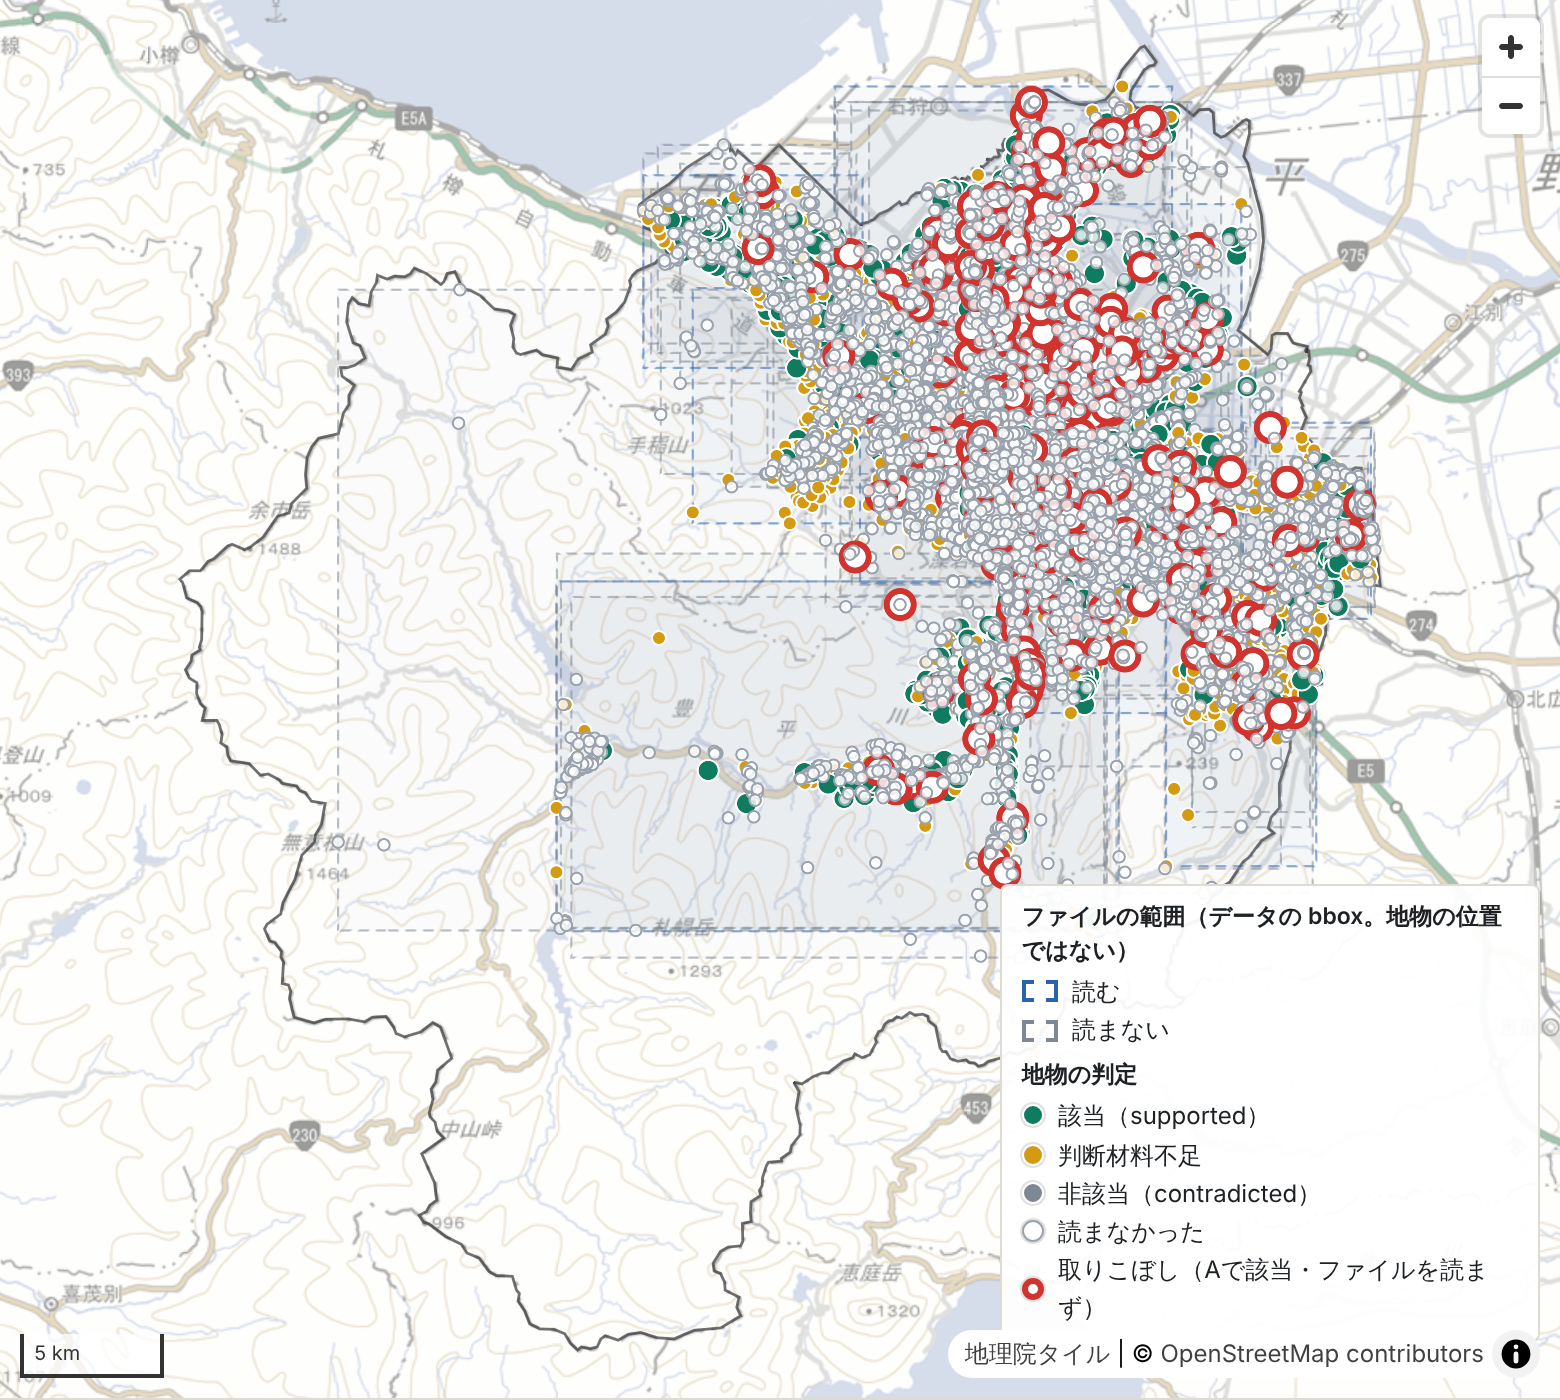
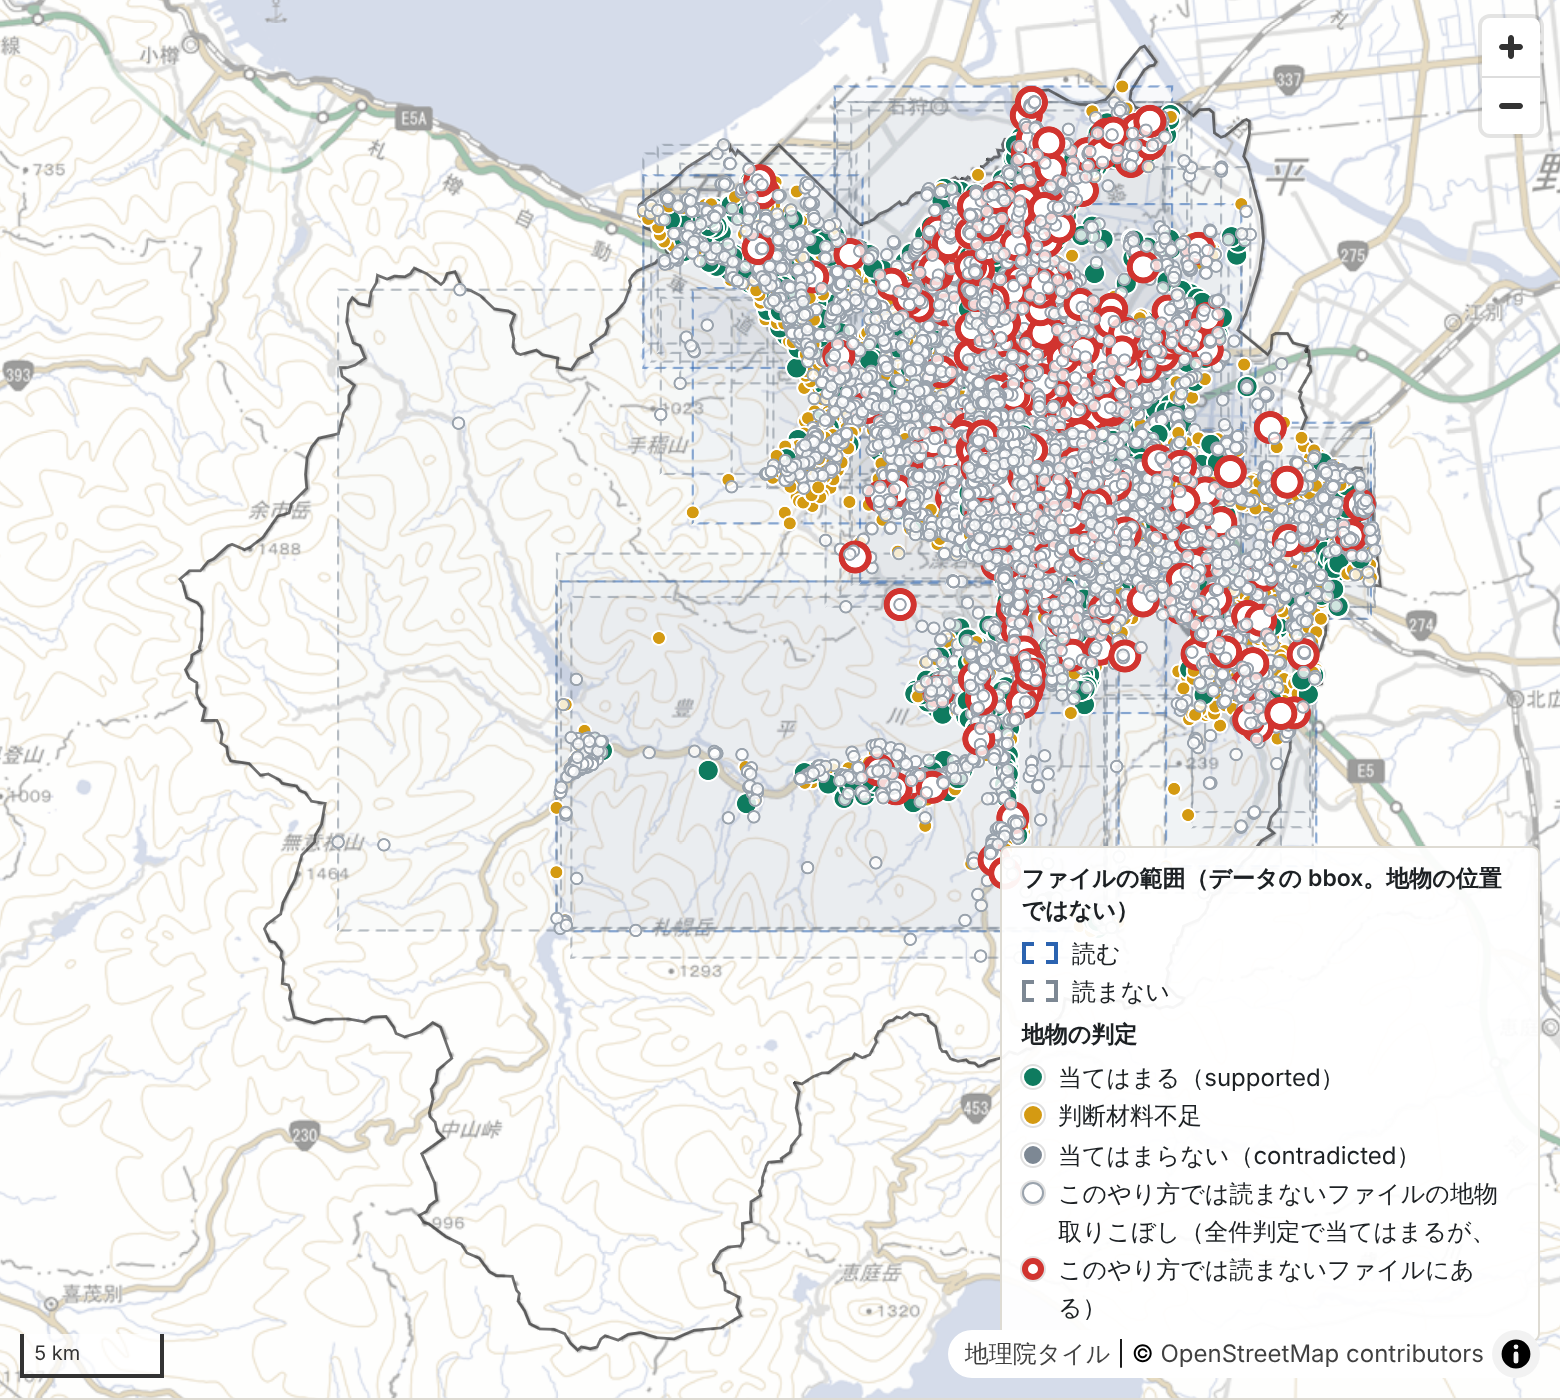
地図の凡例の文言を見直し、スライドの説明と並びを整理

Changed region(s): [[0.6462, 0.5836, 0.9846, 0.9521]]

diff --git a/web/src/i18n.js b/web/src/i18n.js
@@ -41,7 +41,7 @@ export const T = {
     statusShort: { candidate: 'Cand.', exclude: 'Excl.', insufficient_information: 'Insuff.', read: 'Read', skipped: 'Skip' },
     judg: {
       supported: 'Supported', contradicted: 'Contradicted', insufficient_information: 'Insufficient information',
-      notread: 'Not read', missed: 'Missed (supported in A, file not read)',
+      notread: 'In a file this method does not read', missed: 'Missed (supported by full judging, in a file this method does not read)',
     },
     legendFiles: 'File extent (bbox of its data; not where features are)',
     legendPoints: 'Feature judgment',
@@ -99,8 +99,8 @@ export const T = {
     },
     statusShort: { candidate: '候補', exclude: '除外', insufficient_information: '不足', read: '読む', skipped: '読まない' },
     judg: {
-      supported: '該当（supported）', contradicted: '非該当（contradicted）', insufficient_information: '判断材料不足',
-      notread: '読まなかった', missed: '取りこぼし（Aで該当・ファイルを読まず）',
+      supported: '当てはまる（supported）', contradicted: '当てはまらない（contradicted）', insufficient_information: '判断材料不足',
+      notread: 'このやり方では読まないファイルの地物', missed: '取りこぼし（全件判定で当てはまるが、このやり方では読まないファイルにある）',
     },
     legendFiles: 'ファイルの範囲（データの bbox。地物の位置ではない）',
     legendPoints: '地物の判定',
